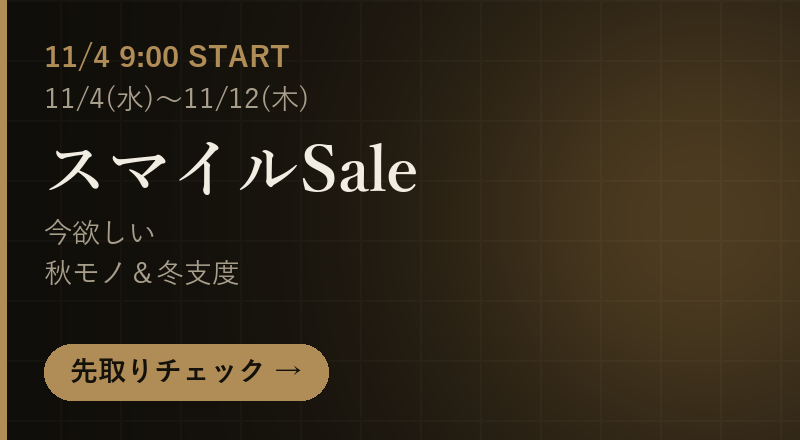
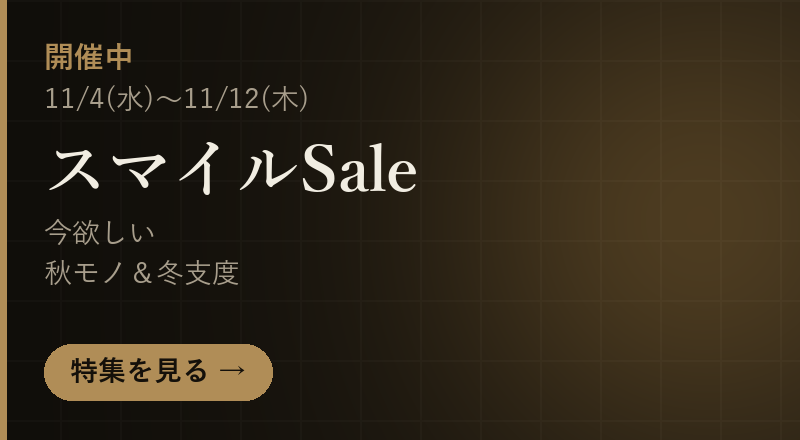
Smile Sale: switch feature page to live (開催中) phase

Changed region(s): [[0.0625, 0.7682, 0.4375, 0.9159], [0.0312, 0.0886, 0.375, 0.1773]]

diff --git a/feature-smile-sale-202611.html b/feature-smile-sale-202611.html
@@ -5,7 +5,7 @@
 <script>(function(){try{var t=localStorage.getItem('gearnote-theme');if(t==='light'||t==='dark'){document.documentElement.setAttribute('data-theme',t);}}catch(e){}})();</script>
 <meta name="viewport" content="width=device-width, initial-scale=1.0">
 <title>Amazon スマイルSale特集（11/4〜11/12）｜GEARNOTE</title>
-<meta name="description" content="Amazon「スマイルSale」は2026年11月4日(水)9:00〜11月12日(木)23:59に開催（テーマは「今欲しい秋モノ＆冬支度」／Amazonの案内）。セール前にやっておく準備、ジャンル別のチェックスペックと、GEARNOTEが仕様でピックアップした冬支度の家電・ガジェット・日用品・食品を紹介します。">
+<meta name="description" content="Amazon「スマイルSale」が開催中です（2026年11月4日(水)9:00〜11月12日(木)23:59）。ジャンル別のチェックスペックと、GEARNOTEが仕様でピックアップした冬支度の家電・ガジェット・日用品・食品を紹介します。">
 <meta name="robots" content="index, follow">
 <link rel="icon" type="image/svg+xml" href="favicon.svg">
 <link rel="icon" type="image/png" href="favicon-32.png">
@@ -19,14 +19,14 @@
 <meta property="og:type" content="website">
 <meta property="og:site_name" content="GEARNOTE">
 <meta property="og:title" content="Amazon スマイルSale特集（11/4〜11/12）｜GEARNOTE">
-<meta property="og:description" content="Amazon「スマイルSale」は2026年11月4日(水)9:00〜11月12日(木)23:59に開催（テーマは「今欲しい秋モノ＆冬支度」／Amazonの案内）。セール前にやっておく準備、ジャンル別のチェックスペックと、GEARNOTEが仕様でピックアップした冬支度の家電・ガジェット・日用品・食品を紹介します。">
+<meta property="og:description" content="Amazon「スマイルSale」が開催中です（2026年11月4日(水)9:00〜11月12日(木)23:59）。ジャンル別のチェックスペックと、GEARNOTEが仕様でピックアップした冬支度の家電・ガジェット・日用品・食品を紹介します。">
 <meta property="og:url" content="https://gearnote.net/feature-smile-sale-202611">
 <link rel="canonical" href="https://gearnote.net/feature-smile-sale-202611">
 <link rel="alternate" type="application/rss+xml" title="GEARNOTE" href="https://gearnote.net/feed.xml">
 <meta property="og:image" content="https://gearnote.net/og-image.png">
 <meta name="twitter:card" content="summary_large_image">
 <meta name="twitter:title" content="Amazon スマイルSale特集（11/4〜11/12）｜GEARNOTE">
-<meta name="twitter:description" content="Amazon「スマイルSale」は2026年11月4日(水)9:00〜11月12日(木)23:59に開催（テーマは「今欲しい秋モノ＆冬支度」／Amazonの案内）。セール前にやっておく準備、ジャンル別のチェックスペックと、GEARNOTEが仕様でピックアップした冬支度の家電・ガジェット・日用品・食品を紹介します。">
+<meta name="twitter:description" content="Amazon「スマイルSale」が開催中です（2026年11月4日(水)9:00〜11月12日(木)23:59）。ジャンル別のチェックスペックと、GEARNOTEが仕様でピックアップした冬支度の家電・ガジェット・日用品・食品を紹介します。">
 <meta name="twitter:image" content="https://gearnote.net/og-image.png">
 <link rel="preconnect" href="https://fonts.googleapis.com">
 <link href="https://fonts.googleapis.com/css2?family=Noto+Sans+JP:wght@400;500;700;900&family=Shippori+Mincho:wght@500;600;800&family=Cormorant+Garamond:wght@600;700&display=swap" rel="stylesheet">
@@ -63,9 +63,9 @@
   <div class="wrap">
     <div class="section-head" style="margin-bottom:16px;">
       <div>
-        <span class="tag">Coming Soon</span>
+        <span class="tag">開催中</span>
         <h1>Amazon「スマイルSale」特集<br>秋モノ＆冬支度 ピックアップ</h1>
-        <p class="desc">開催期間：2026年11月4日(水)9:00〜11月12日(木)23:59（2026年10月28日時点のAmazonの案内）</p>
+        <p class="desc">開催期間：2026年11月4日(水)9:00〜11月12日(木)23:59（Amazonの案内より）</p>
         <p class="pd-byline">執筆・確認：<a href="about.html#author">GEARNOTE運営（H＆C）</a></p>
         <p class="pr-notice" style="font-size:0.78rem;color:var(--text-muted,#8a8a8a);margin:4px 0 10px;line-height:1.6;">※ 当ページにはアフィリエイト広告（Amazonアソシエイト）のリンクが含まれます。</p>
       </div>
@@ -80,8 +80,8 @@
 
     <div class="legal" style="margin-bottom:24px; padding-top:0; padding-bottom:0;">
 
-      <p style="display:inline-block; padding:6px 16px; border:1px solid var(--gold, #b08d57); border-radius:999px; font-weight:700; letter-spacing:.14em;">🔜 11/4(水) 9:00 スタート</p>
-      <p>Amazonの「スマイルSale」は、<strong>2026年11月4日(水)9:00〜11月12日(木)23:59</strong>に開催されます（2026年10月28日時点のAmazonの案内）。今回のテーマは<strong>「今欲しい秋モノ＆冬支度」</strong>です。開催前のため、対象商品や条件はAmazonの特設ページで確認してください。開催が始まったら、このページも更新します。</p>
+      <p style="display:inline-block; padding:6px 16px; border:1px solid var(--gold, #b08d57); border-radius:999px; font-weight:700; letter-spacing:.14em;">🔥 開催中</p>
+      <p><strong>スマイルSaleは11月12日(木)23:59まで開催中です。</strong>テーマは<strong>「今欲しい秋モノ＆冬支度」</strong>です。セール対象かどうか、価格・ポイントの条件は、必ず各商品のAmazon商品ページと、Amazonのキャンペーンページでご確認ください。</p>
 
       <h2 style="margin-top:12px;">セール前にやっておくこと（スペックで選ぶ準備）</h2>
       <ol>

diff --git a/features.html b/features.html
@@ -93,9 +93,9 @@
     <!-- FEATURE CARDS: append a new <div class="cta-box"> here (or add to features/hub.json and rebuild with --hub) -->
     <div class="legal" style="max-width:none;margin:0;padding:0;">
       <div class="cta-box" style="text-align:left; padding:22px 26px; margin:0 0 16px;">
-        <p style="margin:0 0 6px;"><span class="tag" style="">Coming Soon</span> <span style="color:var(--text-muted);font-size:0.85rem;">2026年11月4日(水)9:00〜11月12日(木)23:59（Amazonの案内）</span></p>
+        <p style="margin:0 0 6px;"><span class="tag" style="">開催中</span> <span style="color:var(--text-muted);font-size:0.85rem;">2026年11月4日(水)9:00〜11月12日(木)23:59</span></p>
         <h2 style="font-size:1.15rem;margin:0 0 8px;"><a href="feature-smile-sale-202611.html">Amazon スマイルSale特集</a></h2>
-        <p style="margin:0 0 12px;color:var(--text-muted);font-size:0.92rem;">テーマは「今欲しい秋モノ＆冬支度」。セール前にやっておく準備と、暖房・加湿・寝具・小物・飲み物・ガジェットを仕様と選び方の目安つきでピックアップした特集です。対象商品や条件はAmazonの案内をご確認ください。</p>
+        <p style="margin:0 0 12px;color:var(--text-muted);font-size:0.92rem;">AmazonスマイルSaleが開催中です。暖房・加湿・寝具・小物・飲み物・ガジェットを仕様と選び方の目安つきでピックアップした特集です。対象商品や条件はAmazonの案内をご確認ください。</p>
         <a href="feature-smile-sale-202611.html" class="btn btn-ghost btn-sm" style="display:inline-flex;width:auto;">特集を見る</a>
       </div>
       <div class="cta-box" style="text-align:left; padding:22px 26px; margin:0 0 16px;">

diff --git a/index.html b/index.html
@@ -79,7 +79,7 @@
   <a href="feature-smile-sale-202611.html" class="event-banner" style="margin-bottom:14px;">
     <picture>
       <source media="(max-width: 760px)" srcset="card-smile-sale-202611.png">
-      <img src="card-smile-sale-wide-202611.png" alt="Amazon スマイルSale特集｜11月4日(水)9:00〜11月12日(木)23:59・今欲しい秋モノ＆冬支度（Amazonの案内）" loading="eager">
+      <img src="card-smile-sale-wide-202611.png" alt="開催中｜Amazon スマイルSale特集（11月4日(水)9:00〜11月12日(木)23:59）" loading="eager">
     </picture>
   </a>
   <div class="event-banner-row event-banner-row-2">
